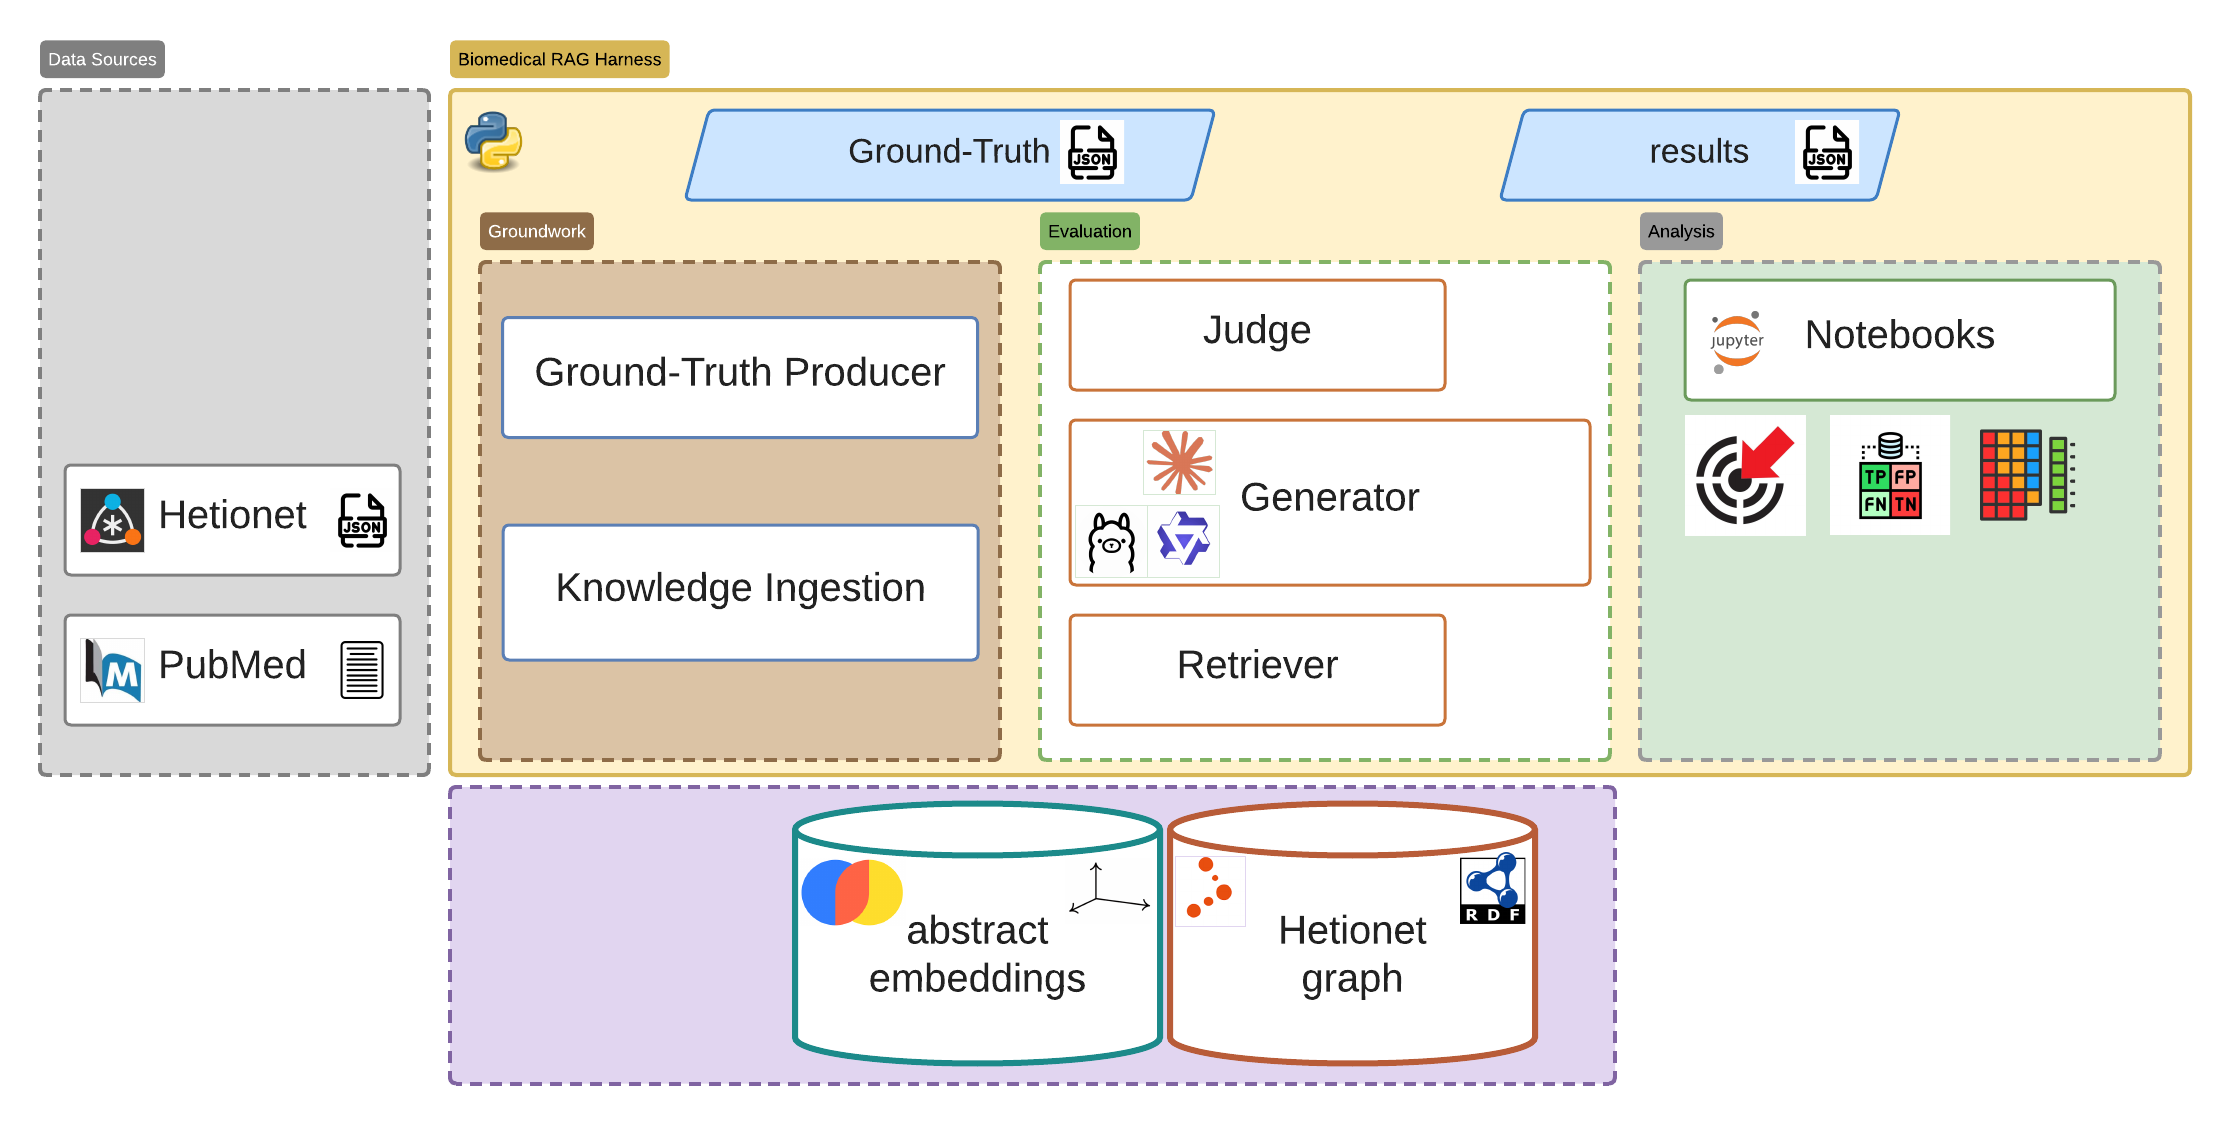
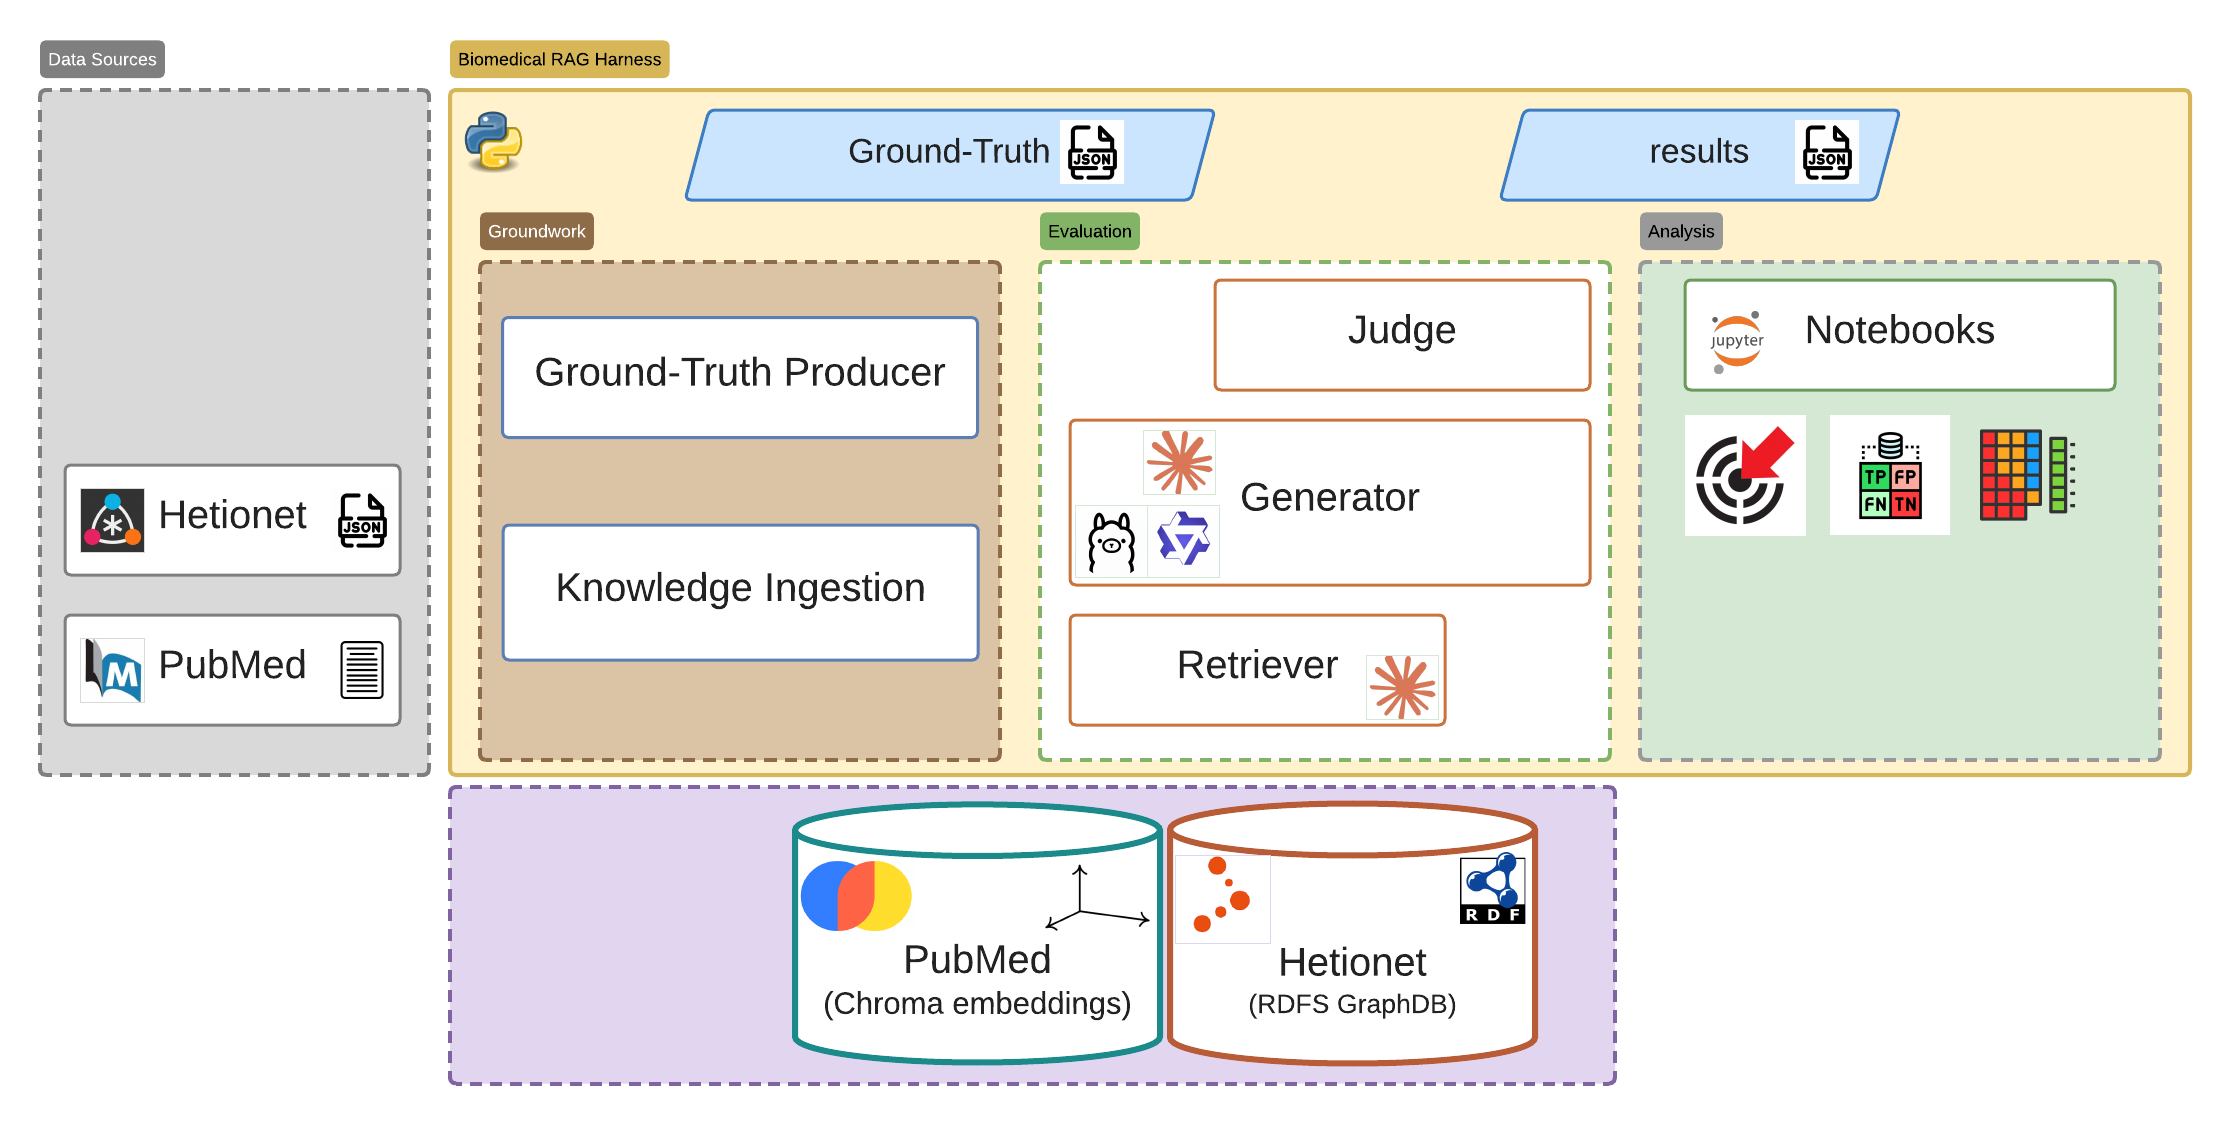
arch diagram review

diff --git a/architecture-manual-images.md b/architecture-manual-images.md
@@ -20,3 +20,11 @@ path you control.
 ![alt text](_resources/architecture-manual-images.md/hetionet.png)
  ![alt text](_resources/architecture-manual-images.md/claude.png)
  ![alt text](_resources/architecture-manual-images.md/jupyter.png)
+![alt text](_resources/architecture-manual-images.md/json.jpg)
+![alt text](_resources/architecture-manual-images.md/text-abstract.png)
+![alt text](_resources/architecture-manual-images.md/embeddings.png) 
+![alt text](_resources/architecture-manual-images.md/rdf.png)
+![alt text](_resources/architecture-manual-images.md/python.png)
+![alt text](_resources/architecture-manual-images.md/accuracy.jpg) 
+![alt text](_resources/architecture-manual-images.md/confusion-matrix.jpg) 
+![alt text](_resources/architecture-manual-images.md/heatmap.png)

diff --git a/README.md b/README.md
@@ -48,7 +48,6 @@ assets — `questions.jsonl`, GraphDB, Chroma — are the hand-off, so they appe
 <summary><b>Image diagram</b></summary>
 
 **Groundwork**
-
 ![architecture diagram](<_resources/README.md/biomedical-rag-bench-architecture (v4).png>)
 
 </details>